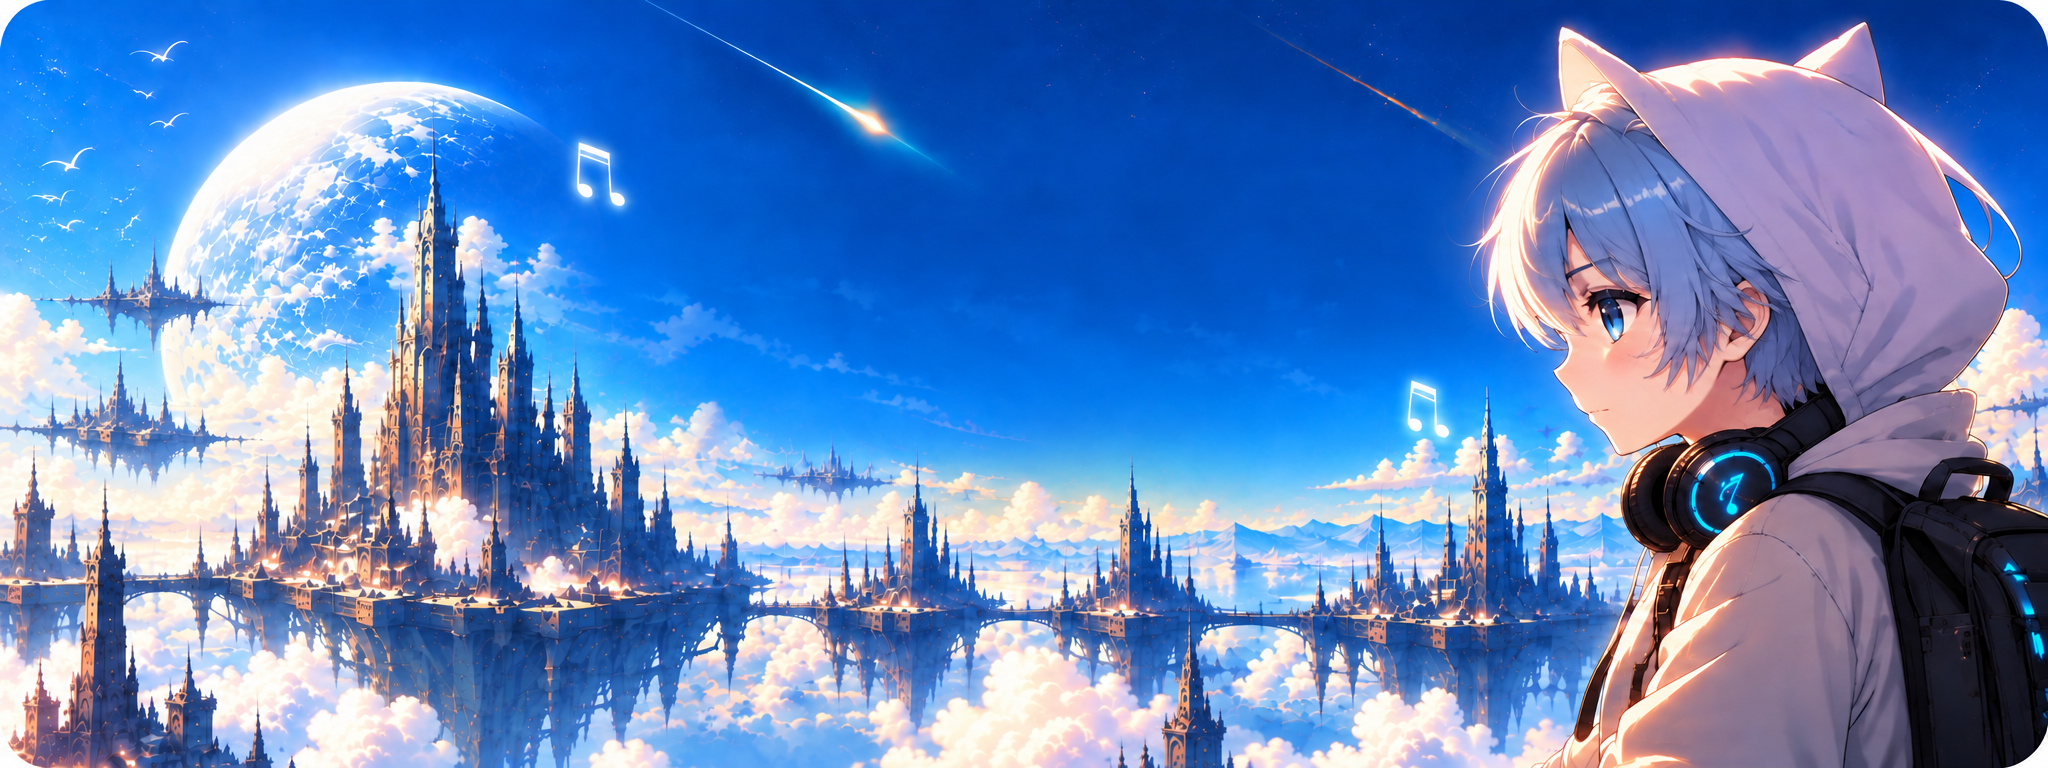
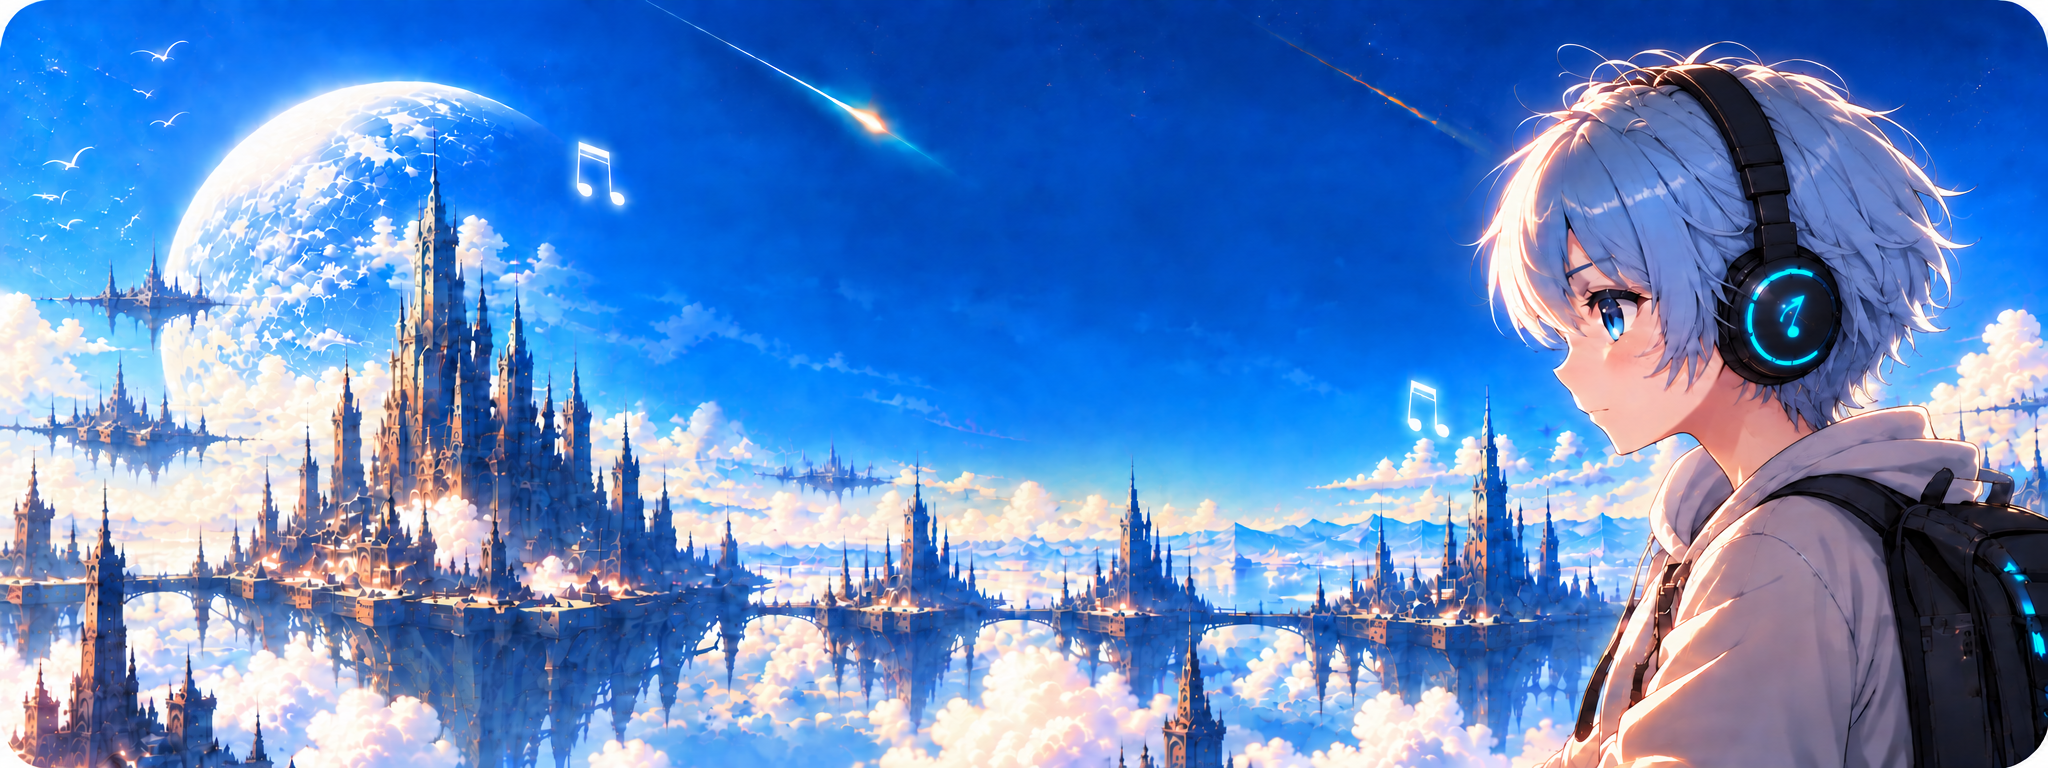
Title画像を修正

diff --git a/index.html b/index.html
@@ -116,7 +116,7 @@ details>summary{list-style:none}details>summary::-webkit-details-marker{display:
 kbd{border:1px solid #3b4050;border-bottom-width:2px;background:#171a22;border-radius:4px;padding:2px 5px;color:#bcc3d2}
 .toast{position:fixed;right:18px;bottom:18px;background:#171a21;border:1px solid #3a4050;padding:11px 14px;border-radius:8px;opacity:0;transform:translateY(8px);transition:.2s;pointer-events:none}.toast.show{opacity:1;transform:none}
 @media(max-width:900px){
- body{font-size:11px}.app{font-size:11px}.panel-title{font-size:10px}.btn,.control,select,input,button{font-size:10px}.top{min-height:190px;background-position:34% center;padding:20px 12px 14px}.top .brand h1{font-size:clamp(24px,8vw,42px)}.top .brand p{font-size:10px;max-width:360px}
+ body{font-size:11px}.app{font-size:11px}.panel-title{font-size:10px}.btn,.control,select,input,button{font-size:10px}.top{min-height:190px;background-position:right center;padding:20px 12px 14px}.top .brand h1{font-size:clamp(24px,8vw,42px)}.top .brand p{font-size:10px;max-width:360px}
  .top{grid-template-columns:1fr}.actions{justify-content:flex-start}
  .workspace{grid-template-columns:1fr}.tracks{max-height:285px;overflow:auto}
  .transport{display:flex;flex-wrap:nowrap;overflow-x:auto;justify-content:flex-start;align-items:center;gap:6px;padding-left:10px;padding-right:10px;-webkit-overflow-scrolling:touch}.transport>*{flex:0 0 auto}.transport .control{display:flex;min-width:0}.transport .transport-stack{font-size:10px}.transport .value-fields,.transport .loop-fields{gap:3px}
